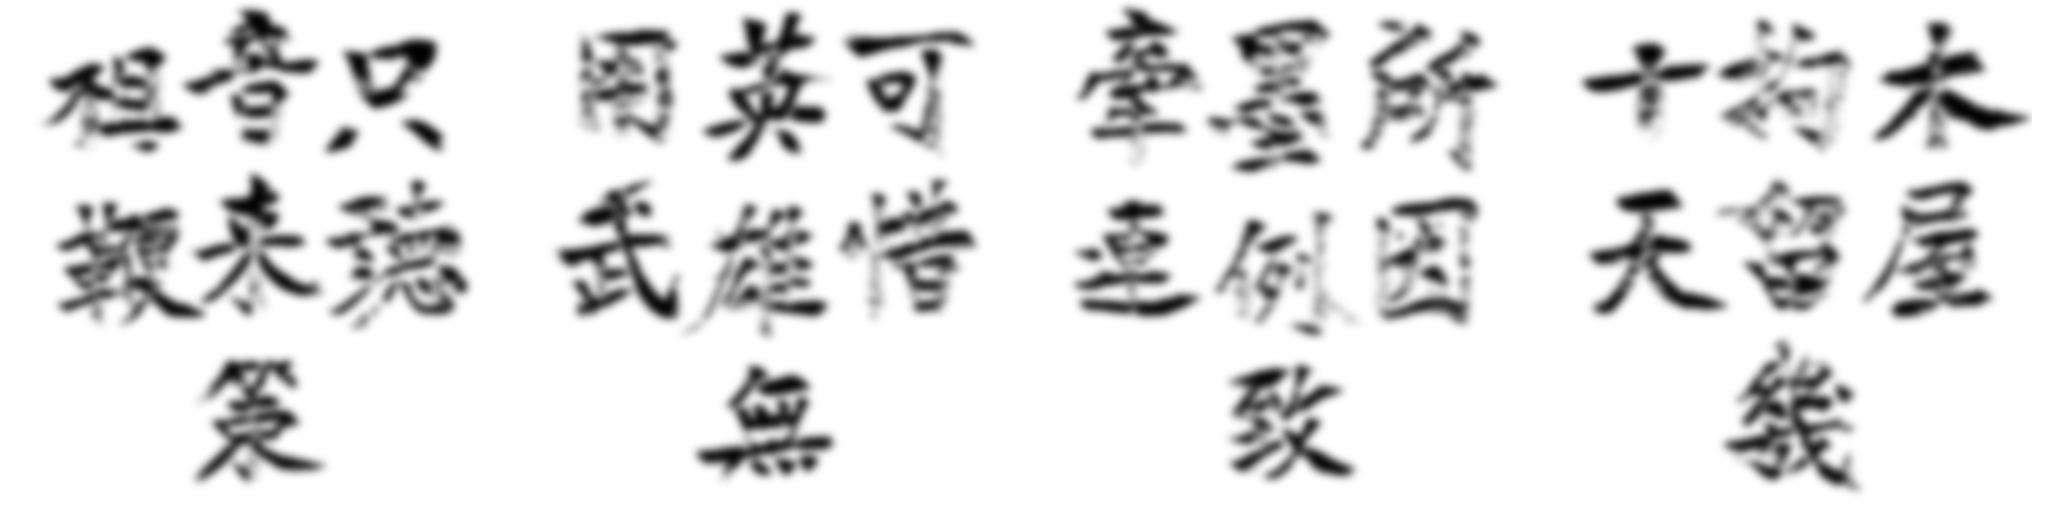
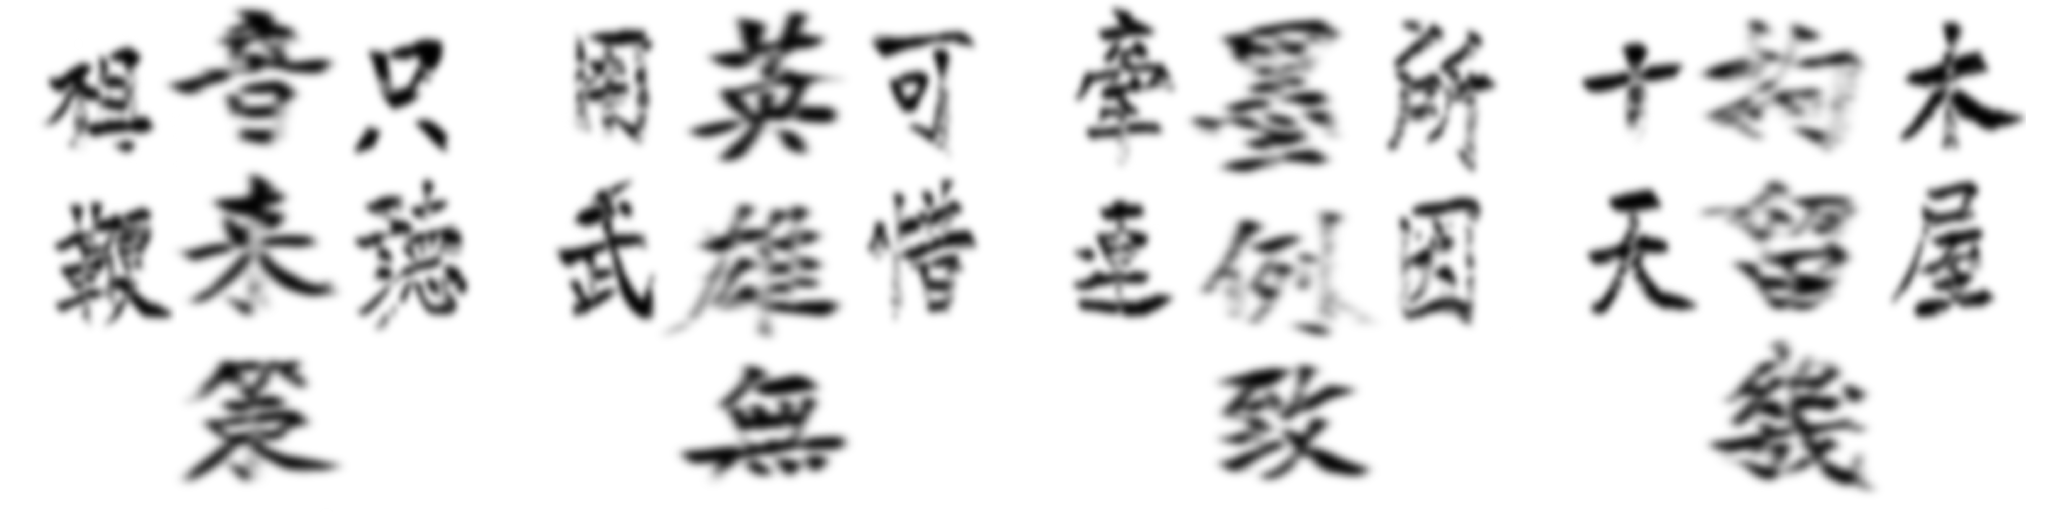
cup: warp images

diff --git a/cup/imgMap.py b/cup/imgMap.py
@@ -13,9 +13,11 @@ SIDES = 4
 COLS_PER_SIDE = 3
 ROWS_PER_SIDE = 3
 IMAGE_SCALE = 0.35
+WARP_INNER_X = 1.2
+WARP_OUTER_X = 0.8
 
 SIDE_WIDTH = TARGET_W / SIDES
-SIDE_MARGIN_X = TARGET_H / 12.0
+SIDE_MARGIN_X = TARGET_H / 24.0
 SIDE_MARGIN_Y = TARGET_H / 128.0
 COL_MARGIN = TARGET_H * 0
 COL_WIDTH = 1.0 * (SIDE_WIDTH - SIDE_MARGIN_X * 2 - COL_MARGIN * (COLS_PER_SIDE-1)) / COLS_PER_SIDE
@@ -33,8 +35,10 @@ for i in range(SIDES):
 
         cx = TARGET_W - SIDE_WIDTH * i - SIDE_MARGIN_X - j * (COL_WIDTH + COL_MARGIN) - COL_WIDTH * 0.5
         rows = ROWS_PER_SIDE
+        warpX = WARP_INNER_X
         if j % 2 == 0:
             rows = 2
+            warpX = WARP_OUTER_X
 
         for k in range(rows):
 
@@ -42,12 +46,12 @@ for i in range(SIDES):
             filename = "chars/char_%s-%s.png" % (line, char)
             im = Image.open(filename)
             imgW, imgH = im.size
-            tw = imgW * IMAGE_SCALE
+            tw = imgW * IMAGE_SCALE * warpX
             th = imgH * IMAGE_SCALE
             x = cx - tw * 0.5
             y = cy - th * 0.5
 
-            im.thumbnail((tw, th))
+            im = im.resize((int(tw), int(th)))
             imBase.paste(im, (int(x), int(y)), im)
 
             char += 1
